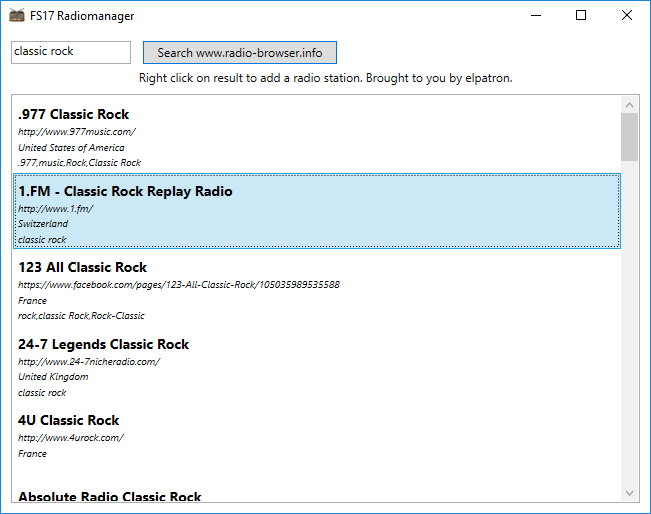
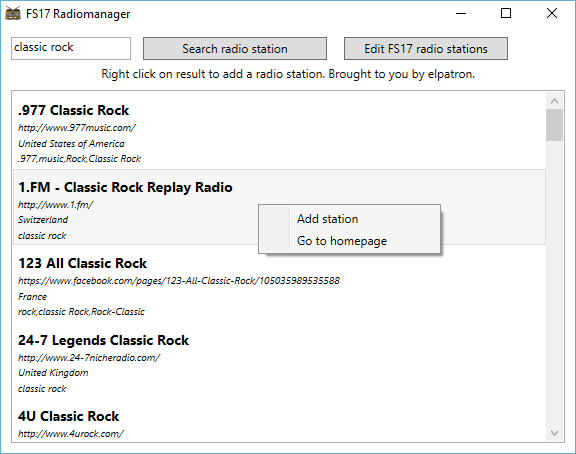
README.md, screenshot/FS17_Radiomanager.png

Changed region(s): [[0.0, 0.0, 1.0, 1.0], [0.7812, 0.0, 0.9062, 0.0617], [0.9375, 0.0, 1.0, 0.0617]]

diff --git a/FS17-RadiomanagerPro/MainWindow.xaml b/FS17-RadiomanagerPro/MainWindow.xaml
@@ -11,7 +11,7 @@
             <TextBox x:Name="textBox" HorizontalAlignment="Left" Height="23" Margin="10,10,0,0" TextWrapping="Wrap" VerticalAlignment="Top" Width="120"/>
             <Label x:Name="label" Content="Right click on result to add a radio station. Brought to you by elpatron." HorizontalAlignment="Center"/>
         </StackPanel>
-        <Button x:Name="btnSearch" Content="_Search www.radio-browser.info" HorizontalAlignment="Left" Margin="142,10,0,0" VerticalAlignment="Top" Width="184" Height="23" IsDefault="True"/>
+        <Button x:Name="btnSearch" Content="_Search radio station" HorizontalAlignment="Left" Margin="142,10,0,0" VerticalAlignment="Top" Width="184" Height="23" IsDefault="True"/>
         <Button x:Name="btnEdit" Content="_Edit FS17 radio stations" Margin="343,10,0,0" VerticalAlignment="Top" Height="23" IsDefault="True" HorizontalAlignment="Left" Width="164"/>
         <ListBox x:Name="resultView" Margin="10,63,10,10">
             <ListBox.ItemTemplate>

diff --git a/README.md b/README.md
@@ -9,29 +9,44 @@ Add radio stations from http://www.radio-browser.info/ (via API) to your Farming
   - Installation of the game Farmin Simulator 2017
 
 ## Download
-Download portable version or setup.exe from [Releases](/releases)
+Download portable version or setup.exe from [Releases](/releases).
 
 ## Adding and removing radio stations
 Start this program, enter a seach term into the text box and click on the search button. Save the station(s) you would like to be added to 
-the list of FS17-Internet Radio Stations by right clicking on the station(s).
+the list of FS17-Internet radio stations by right clicking on the station(s).
 
 You can delete stations from the list by editing the configuration file (right button):
 
 ```
-<?xml version="1.0" encoding="utf-8" standalone="no" ?>
-
+<?xml version="1.0" encoding="utf-8" standalone="no"?>
 <streamingInternetRadios>
-<!--streamingInternetRadio href="http://www.please-edit-this-01.com/stream.m3u" /-->
-<!--streamingInternetRadio href="http://www.please-edit-this-02.com/stream.m3u" /-->
-<!--streamingInternetRadio href="http://www.please-edit-this-03.com/stream.m3u" /-->
+  <streamingInternetRadio href="http://strm112.1.fm/crock_mobile_mp3">
+    <!--1.FM - Classic Rock Replay Radio-->
+  </streamingInternetRadio>
+  <streamingInternetRadio href="http://str4uice.streamakaci.com/4uclassicrock.mp3">
+    <!--123 All Classic Rock-->
+  </streamingInternetRadio>
+  <streamingInternetRadio href="http://178.32.62.154:8922/stream">
+    <!--Radio Nora-->
+  </streamingInternetRadio>
+  <streamingInternetRadio href="http://provisioning.streamtheworld.com/pls/CJRLFMAAC.pls">
+    <!--CJRL 89.5 "The Lake" Kenora, ON-->
+  </streamingInternetRadio>
 </streamingInternetRadios>
 ```
-Example `streamingInternetRadios.xml` file
+(Example `streamingInternetRadios.xml` file)
 
-Remove a station by deleting it´s corresponding line (`<!--streamingInternetRadio href="http://www.please-edit-this-02.com/stream.m3u" /-->`) from the file.
+Remove a station by deleting it´s corresponding lines. Example: Delete the lines
+```
+  <streamingInternetRadio href="http://strm112.1.fm/crock_mobile_mp3">
+    <!--1.FM - Classic Rock Replay Radio-->
+  </streamingInternetRadio>
+```
+to remove the station *1.FM - Classic Rock Replay Radio*. Save the file and restart FS17 (if it was running).
+
 
 ## Useage in the game
-Start the game, get on a vehicle, start the radio with key `5`, play the next station (`6`) or gi to previous (`4`).
+Start the game, enter a vehicle and start the radio with key `5`, play the next station (`6`) or go to previous (`4`).
 
 ## Uninstallation
 Uninstall this software by using the Windows Software Uninstall control panel.
